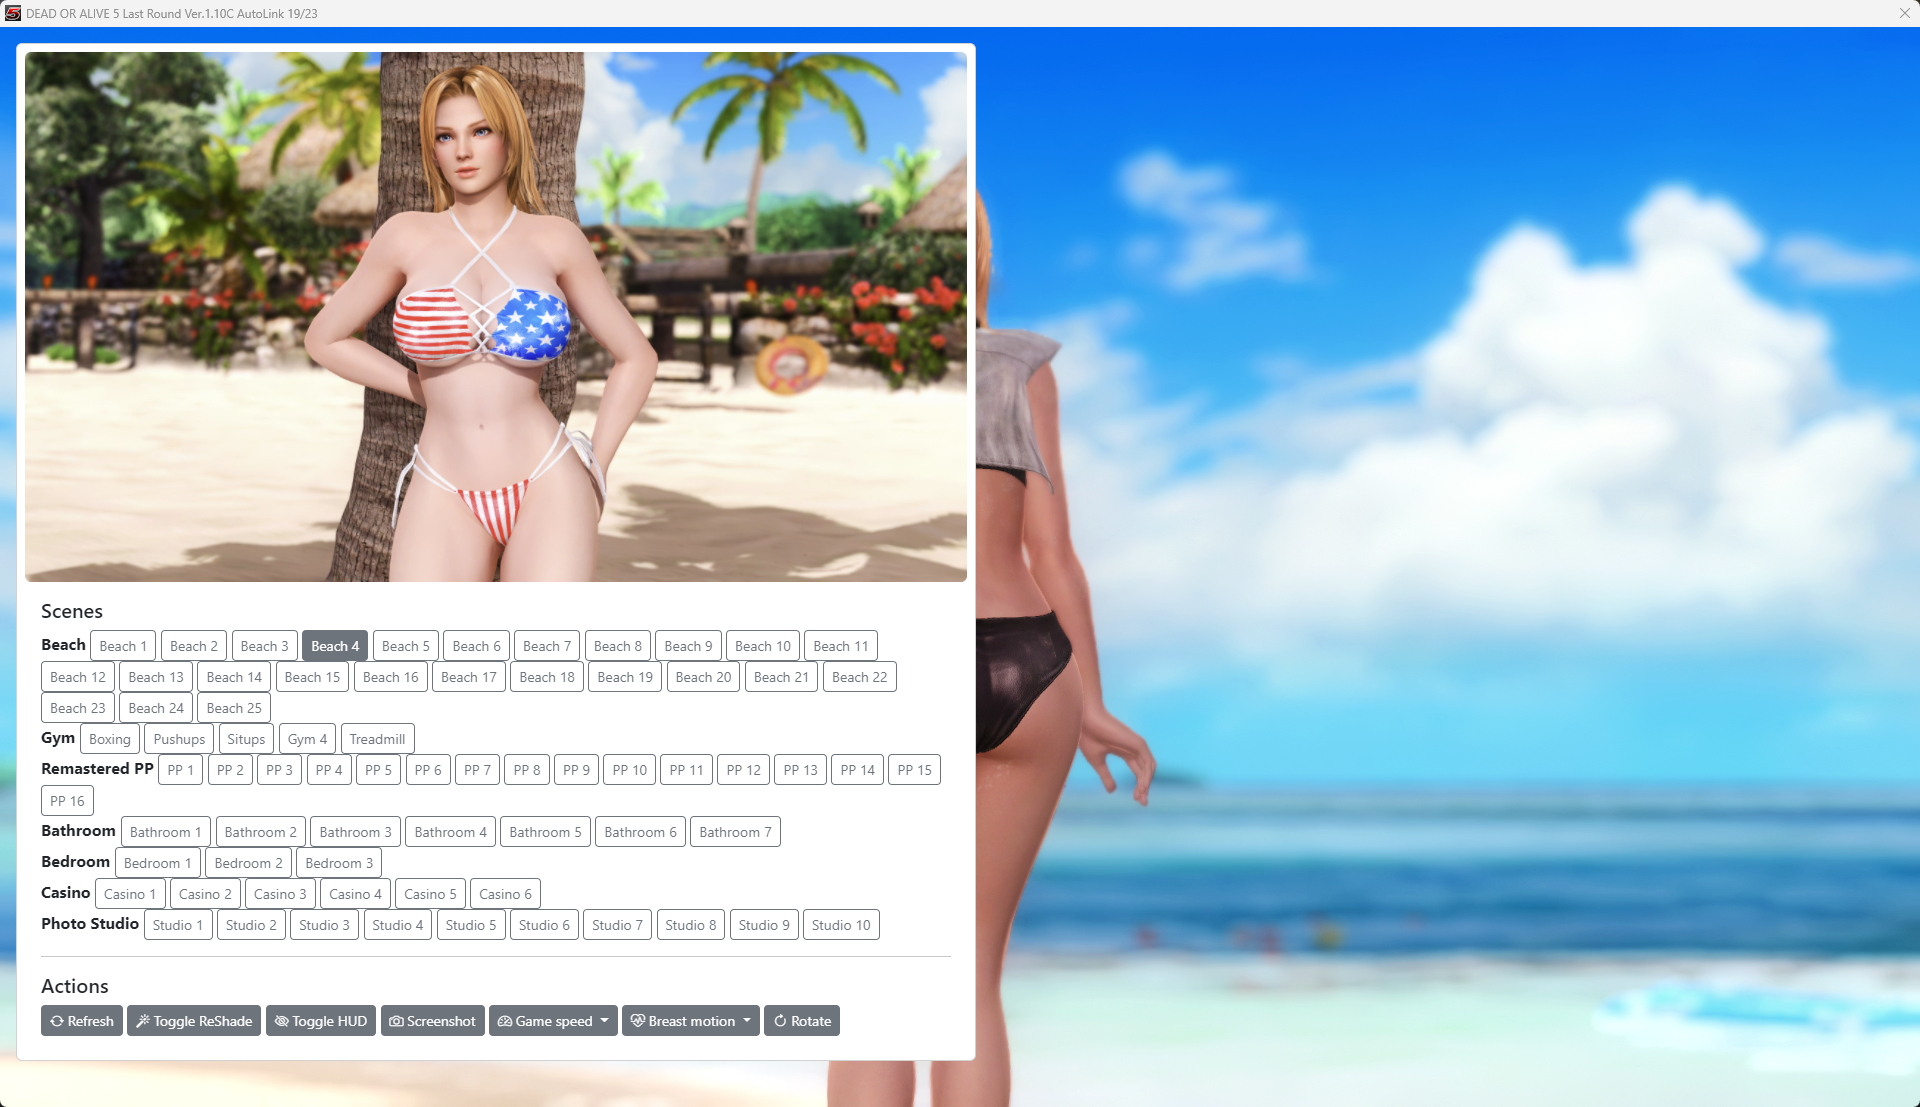
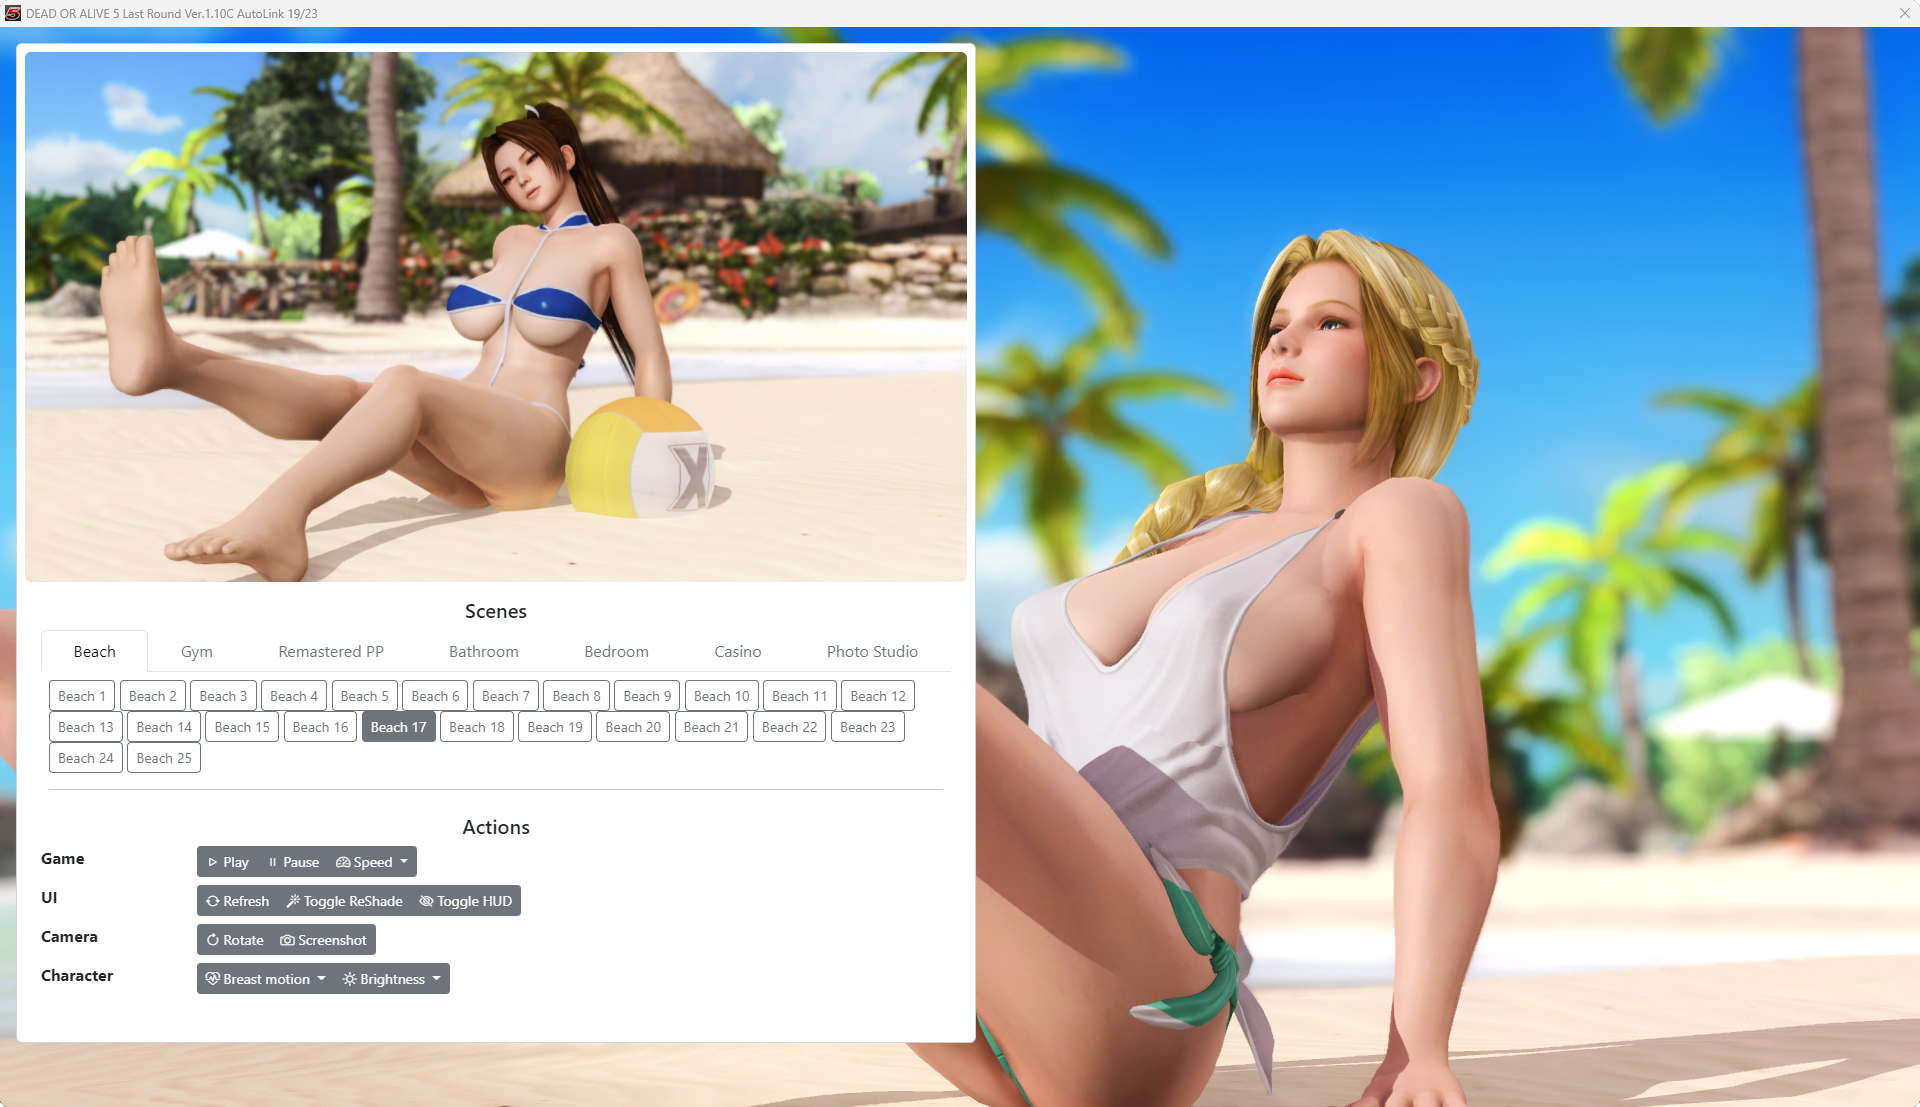
Action categories
Added action for character brightness, game play and pause
Updated screenshot

diff --git a/README.md b/README.md
@@ -60,8 +60,8 @@ Contains all scene data.
 ```javascript
 [
     {
-        "name": "Beach",                    // Category name.
-        "id": 1,                            // Category ID, just a unique integer.
+        "name": "Beach",                    // Scene category name.
+        "id": 1,                            // Scene category ID, just a unique integer.
         "scenes": [                         // Array of scenes in category.
             {
                 "name": "Beach 1",          // Scene name
@@ -71,7 +71,7 @@ Contains all scene data.
             // Additional scenes...
         ]
     }
-    // Additional categories...
+    // Additional scene categories...
 ]
 ```
 
@@ -82,21 +82,27 @@ A button for each action will show up at the bottom of the overlay.
 ```javascript
 [
     {
-        "type": "button",       // type of UI element, "button" or "dropdown".
-        "icon": "eye-slash",    // Bootstrap Icon key.
-        "name": "Toggle HUD",   // Name in UI.
-        "keyMode": "press",     // Type of keypress; "press" for single press, "combination" for key combinations, "sequence" for sequence of keypresses.
-        "keys": "F5",           // Keys to press. Use + as delimeter for combination and sequence keyMode.
-        "options": [            // For dropdown action type, array of dropdown items.
+        "name": "Game",         // Action category.
+        "actions": [            // Array of actions in category.
             {
-                "name": "Slow",
-                "keyMode": "combination",
-                "keys": "F1+subtract"
+                "type": "button",       // type of UI element, "button" or "dropdown".
+                "icon": "eye-slash",    // Bootstrap Icon key.
+                "name": "Toggle HUD",   // Name in UI.
+                "keyMode": "press",     // Type of keypress; "press" for single press, "combination" for key combinations, "sequence" for sequence of keypresses.
+                "keys": "F5",           // Keys to press. Use + as delimeter for combination and sequence keyMode.
+                "options": [            // For dropdown action type, array of dropdown items.
+                    {
+                        "name": "Slow",
+                        "keyMode": "combination",
+                        "keys": "F1+subtract"
+                    }
+                    // Additional options...
+                ]
             }
-            // Additional options...
+            // Additional actions...
         ]
     }
-    // Additional actions...
+    // Additional action categories...
 ]
 ```
 
